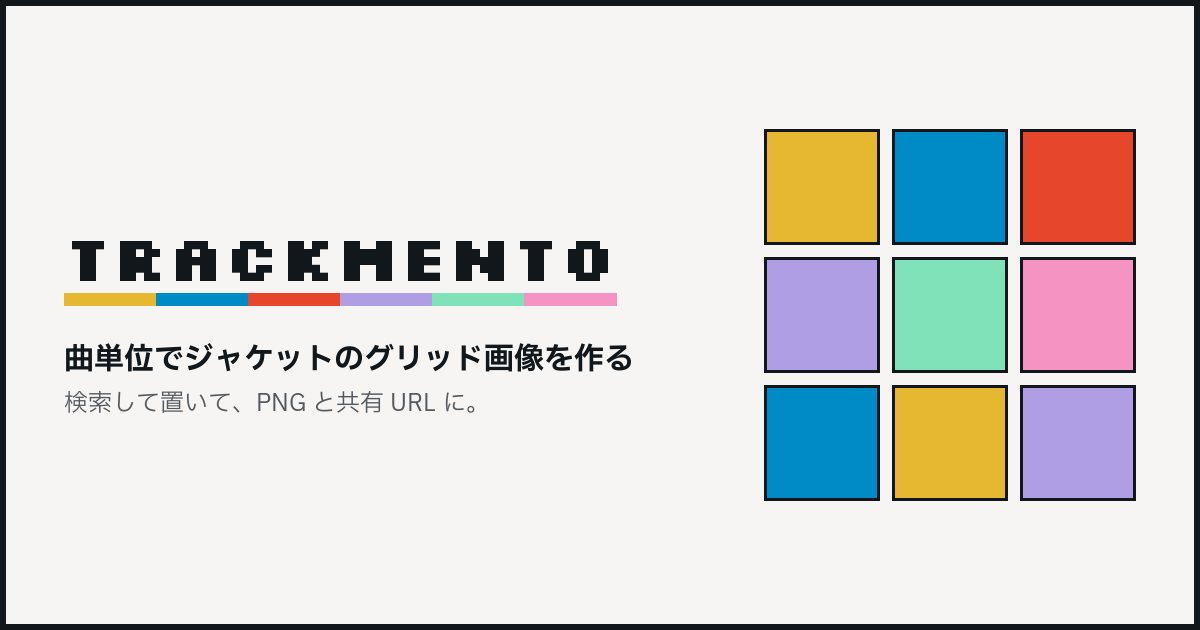
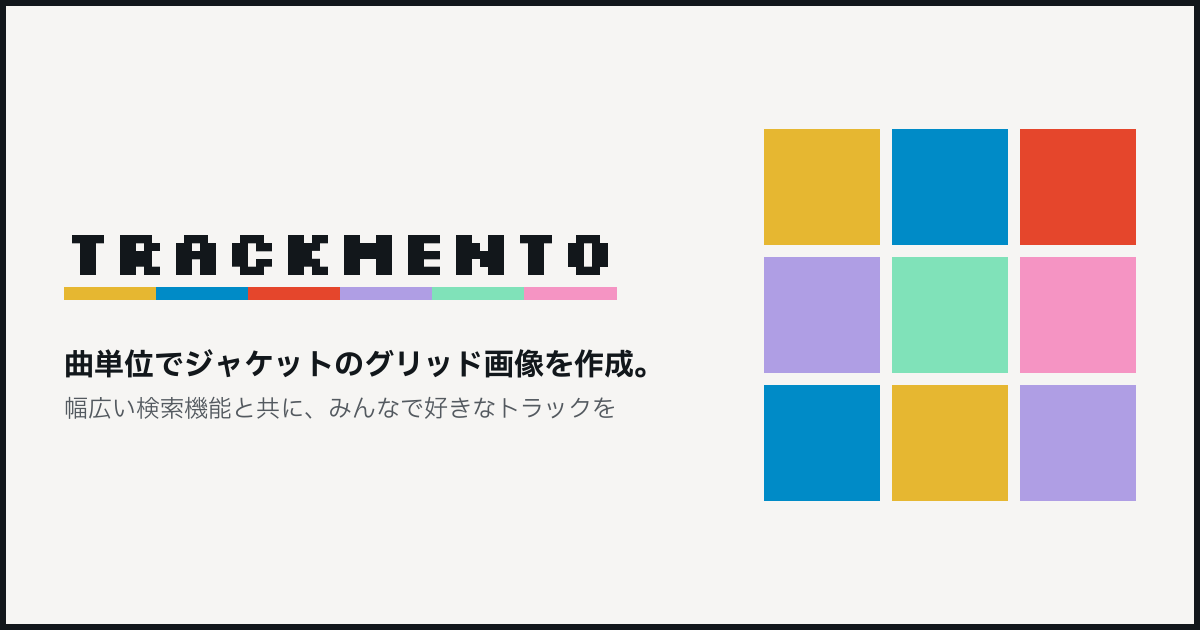
style: OG カードの文言を変更、右のグリッドの黒線を無くし、左のテキスト群を上下中央に
Claude-Session: https://claude.ai/code/session_018CCB33xJrEUSEfcw1Qpqaa

Changed region(s): [[0.6167, 0.181, 0.9558, 0.8143], [0.0308, 0.3619, 0.5242, 0.5127], [0.0308, 0.5429, 0.555, 0.6635]]

diff --git a/frontend/index.html b/frontend/index.html
@@ -4,9 +4,9 @@
 <meta charset="utf-8">
 <meta name="viewport" content="width=device-width, initial-scale=1">
 <title>TRACKMENTO</title>
-<meta name="description" content="曲単位でジャケットのグリッド画像を作るツール。検索して置いて、PNG と共有 URL に。">
+<meta name="description" content="曲単位でジャケットのグリッド画像を作成。幅広い検索機能と共に、みんなで好きなトラックを">
 <meta property="og:type" content="website"><meta property="og:site_name" content="TRACKMENTO">
-<meta property="og:title" content="TRACKMENTO"><meta property="og:description" content="曲単位でジャケットのグリッド画像を作る。検索して置いて、PNG と共有 URL に。">
+<meta property="og:title" content="TRACKMENTO"><meta property="og:description" content="曲単位でジャケットのグリッド画像を作成。幅広い検索機能と共に、みんなで好きなトラックを">
 <meta property="og:url" content="__BASE__/"><meta property="og:image" content="__BASE__/og.png">
 <meta name="twitter:card" content="summary_large_image">
 <style>
